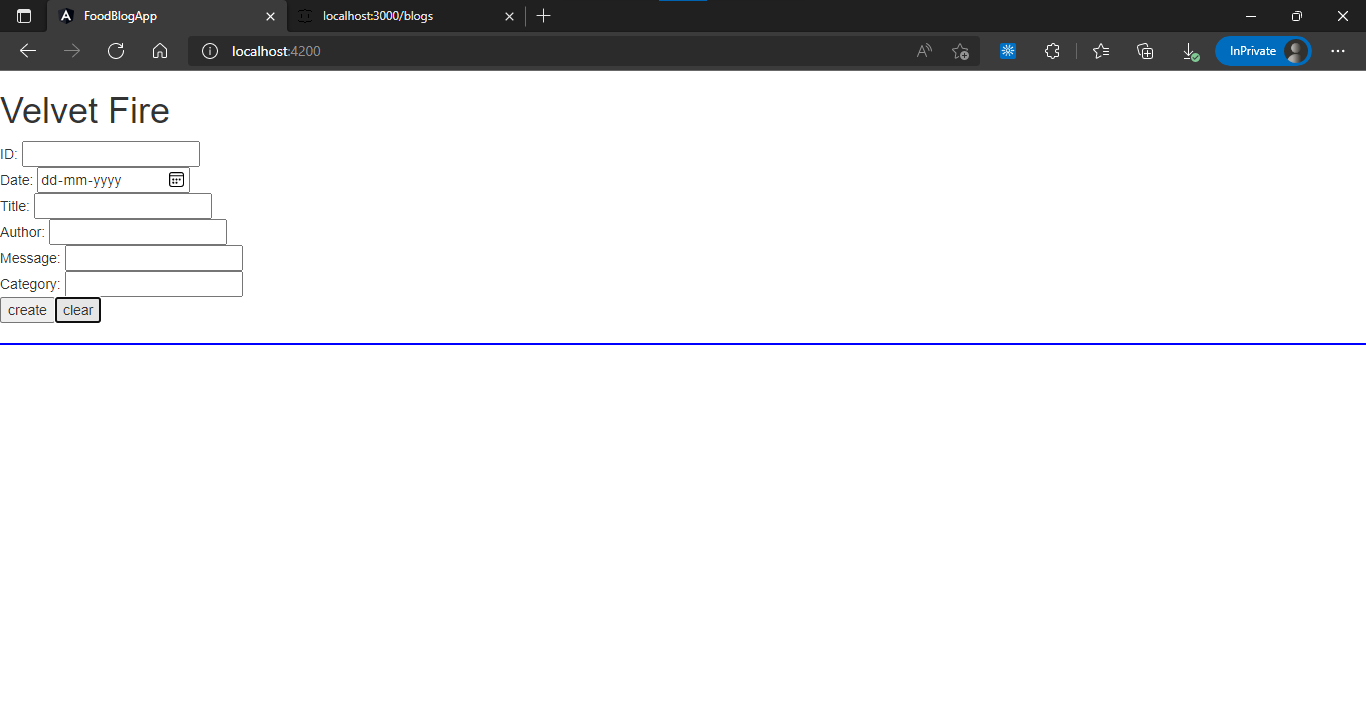
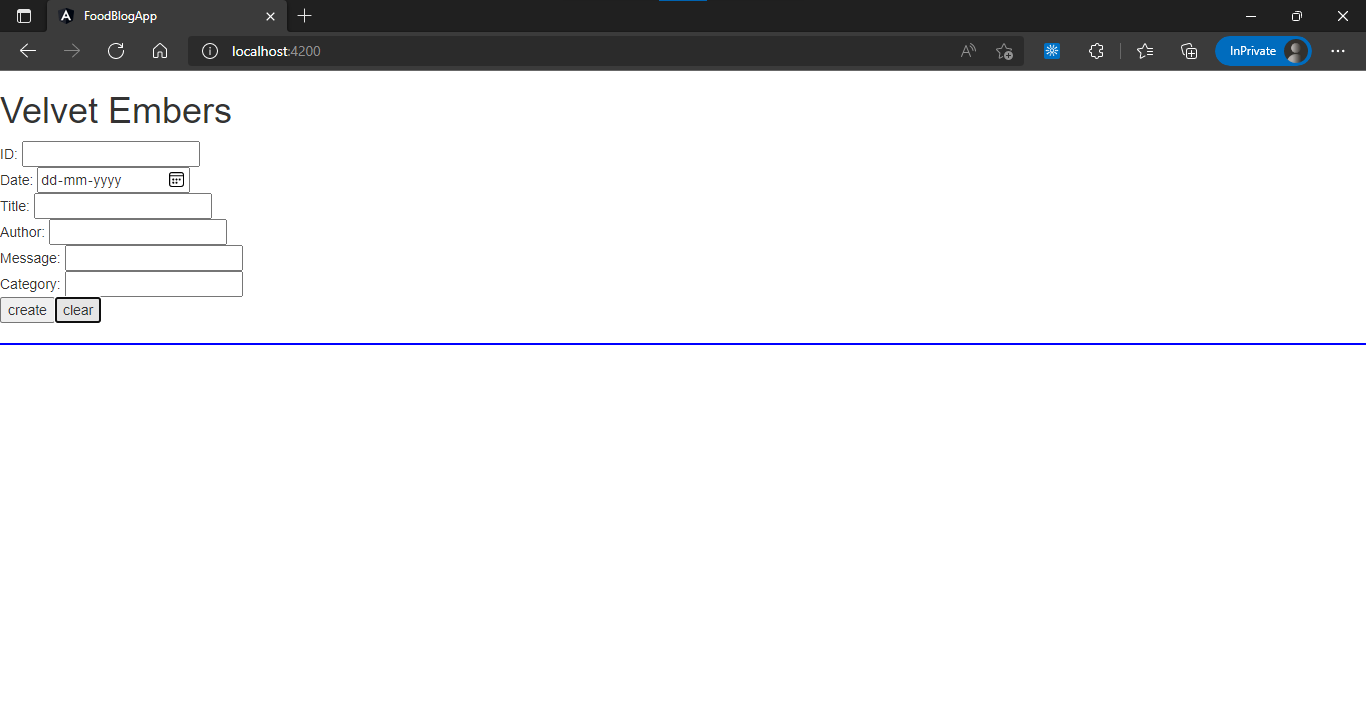
crud complete & bootstrap stylings

diff --git a/food-blog-app/src/app/blog/components/blog-index/blog-index.component.html b/food-blog-app/src/app/blog/components/blog-index/blog-index.component.html
@@ -7,6 +7,7 @@
             <th>Author</th>
             <th>Message</th>
             <th>Category</th>
+            <th>Operations</th>
         </tr>
     </thead>
     <tbody>
@@ -17,17 +18,60 @@
             <td>{{blog.author}}</td>
             <td>{{blog.message}}</td>
             <td>{{blog.category}}</td>
+            <td>
+                <button class="btn btn-primary" (click)="getBlogById(blog.id)">select</button>
+                <button class="btn btn-danger" (click)="deleteBlog(blog.id)">delete</button>
+            </td>
         </tr>
     </tbody>
 </table>
 <hr style="border: 1px solid green;"/>
-ID: <input type="number" [(ngModel)]="blog.id"/> <br/>
-Date: <input type="date" [(ngModel)]="blog.date"/> <br/>
-Title: <input type="text" [(ngModel)]="blog.title"/> <br/>
-Author: <input type="text" [(ngModel)]="blog.author"/> <br/>
-Message: <input type="text" [(ngModel)]="blog.message"/> <br/>
-Category: <input type="text" [(ngModel)]="blog.category"/> <br/>
-<button (click)="createBlog()">create</button>
-<button (click)="clear()">clear</button>
+<div class="row">
+    <div class="col-sm-6 form-horizontal">
+        <div class="row form-group">
+            <label class="col-sm-2 control-label" for="id">ID</label>
+            <div class="col-sm-4">
+                <input type="number" [(ngModel)]="blog.id" class="form-control" id="id"/>
+            </div>
+        </div>
+        <div class="row form-group">
+            <label class="col-sm-2 control-label" for="date">Date</label>
+            <div class="col-sm-4">
+                <input type="date" [(ngModel)]="blog.date" class="form-control" id="date"/>
+            </div>
+        </div>
+        <div class="row form-group">
+            <label class="col-sm-2 control-label" for="title">Title</label>
+            <div class="col-sm-4">
+                <input type="text" [(ngModel)]="blog.title" class="form-control" id="title"/>
+            </div>
+        </div>
+        <div class="row form-group">
+            <label class="col-sm-2 control-label" for="author">Author</label>
+            <div class="col-sm-4">
+                <input type="text" [(ngModel)]="blog.author" class="form-control" id="author"/>
+            </div>
+        </div>
+        <div class="row form-group">
+            <label class="col-sm-2 control-label" for="message">Message</label>
+            <div class="col-sm-4">
+                <input type="text" [(ngModel)]="blog.message" class="form-control" id="message"/>
+            </div>
+        </div>
+        <div class="row form-group">
+            <label class="col-sm-2 control-label" for="category">Category</label>
+            <div class="col-sm-4">
+                <input type="text" [(ngModel)]="blog.category" class="form-control" id="category"/>
+            </div>
+        </div>
+    </div>
+</div>
+<div class="row btn-group">
+    <button class="btn btn-primary" (click)="createBlog()">create</button>
+    <button class="btn btn-primary" (click)="clear()">clear</button>
+    <button class="btn btn-primary" (click)="updateBlog()">update</button>
+</div>
 <hr style="border: 1px solid blue;">
-{{msg}}
+<div class="row">
+    {{msg}}
+</div>

diff --git a/food-blog-app/src/app/app.component.html b/food-blog-app/src/app/app.component.html
@@ -1,2 +1,38 @@
-<h1>Velvet Fire</h1>
-<app-blog-index></app-blog-index>
+<div class="container">
+    <div class="row logoarea">
+        <h1>Velvet Embers</h1>
+    </div>
+    <div class="row">
+        <ul class="nav nav-tabs">
+            <li class="nav-item">
+                <a routerLink="/register" class="nav-link active" data-toggle="tab">register</a>
+            </li>
+            <li class="nav-item">
+                <a routerLink="/login" class="nav-link active" data-toggle="tab">login</a>
+            </li>
+            <li class="nav-item">
+                <a routerLink="/blog" class="nav-link active" data-toggle="tab">blog</a>
+            </li>
+            <li class="nav-item">
+                <a routerLink="/contact" class="nav-link active" data-toggle="tab">contact</a>  
+            </li>
+        </ul>
+    </div>
+    <router-outlet></router-outlet>
+    <div class="row">
+        <div class="tab-content">
+            <div id="register" class="tab-pane fade">
+                <app-register></app-register>
+            </div>
+            <div id="login" class="tab-pane fade">
+                <app-login></app-login>
+            </div>
+            <div id="blog" class="tab-pane fade">
+                <app-blog-index></app-blog-index>
+            </div>
+            <div id="contact" class="tab-pane fade">
+                <app-contact></app-contact>
+            </div>
+        </div>
+    </div>
+</div>

diff --git a/food-blog-app/src/app/blog/components/blog-index/blog-index.component.ts b/food-blog-app/src/app/blog/components/blog-index/blog-index.component.ts
@@ -17,32 +17,38 @@ export class BlogIndexComponent implements OnInit {
   constructor(private cjs: CrudJsonService) { }
 
   ngOnInit(): void {
+    this.getAllBlogs();
+  }
+
+  getAllBlogs(){
     this.cjs.getAllBlogs()
-      .subscribe(response => this.blogs = response);
+    .subscribe(response => this.blogs = response);
   }
 
   createBlog(){
     this.cjs.createBlog(this.blog)
-      .subscribe(response => this.msg="Course Added Successfully");
+      .subscribe(response => this.msg="Blog Added Successfully");
   }
 
   clear(){
     this.blog = new Blog();
     this.msg = '';
-    this.cjs.getAllBlogs()
-    .subscribe(response => this.blogs = response);
+    this.getAllBlogs();
   }
 
-  getBlogById(){
-
+  getBlogById(id:number){
+    this.cjs.getBlogById(id)
+      .subscribe(response => this.blog = response);
   }
 
   updateBlog(){
-
+    this.cjs.updateBlog(this.blog.id??NaN, this.blog)
+      .subscribe(response => this.msg="Blog Updated Successfully");
   }
 
-  deleteBlog(){
-
+  deleteBlog(id:number){
+    this.cjs.deleteBlog(id)
+      .subscribe(response => this.msg="Blog Deleted Successfully");
   }
 
 }

diff --git a/food-blog-app/src/app/app-routing.module.ts b/food-blog-app/src/app/app-routing.module.ts
@@ -1,10 +1,23 @@
 import { NgModule } from '@angular/core';
 import { RouterModule, Routes } from '@angular/router';
+import { BlogIndexComponent } from './blog/components/blog-index/blog-index.component';
+import { ContactComponent } from './blog/components/contact/contact.component';
+import { ErrorComponent } from './blog/components/error/error.component';
+import { LoginComponent } from './blog/components/login/login.component';
+import { RegisterComponent } from './blog/components/register/register.component';
 
-const routes: Routes = [];
+const routes: Routes = [
+  {path:'blog', component:BlogIndexComponent},
+  {path:'login', component:LoginComponent},
+  {path:'register', component:RegisterComponent},
+  {path:'contact', component:ContactComponent},
+  {path:'', redirectTo:'/register', pathMatch:'full'},
+  {path:'**', component:ErrorComponent}
+];
 
 @NgModule({
   imports: [RouterModule.forRoot(routes)],
   exports: [RouterModule]
 })
+
 export class AppRoutingModule { }

diff --git a/food-blog-app/src/app/blog/blog.module.ts b/food-blog-app/src/app/blog/blog.module.ts
@@ -2,17 +2,29 @@ import { NgModule } from '@angular/core';
 import { CommonModule } from '@angular/common';
 import { BlogIndexComponent } from './components/blog-index/blog-index.component';
 import { FormsModule } from '@angular/forms';
+import { RegisterComponent } from './components/register/register.component';
+import { LoginComponent } from './components/login/login.component';
+import { ErrorComponent } from './components/error/error.component';
+import { ContactComponent } from './components/contact/contact.component';
 
 @NgModule({
   declarations: [
-    BlogIndexComponent
+    BlogIndexComponent,
+    RegisterComponent,
+    LoginComponent,
+    ErrorComponent,
+    ContactComponent
   ],
   imports: [
     CommonModule,
     FormsModule
   ],
   exports:[
-    BlogIndexComponent
+    BlogIndexComponent,
+    RegisterComponent,
+    LoginComponent,
+    ErrorComponent,
+    ContactComponent
   ]
 })
 

diff --git a/food-blog-app/src/app/blog/components/register/register.component.spec.ts b/food-blog-app/src/app/blog/components/register/register.component.spec.ts
@@ -1,0 +1,25 @@
+import { ComponentFixture, TestBed } from '@angular/core/testing';
+
+import { RegisterComponent } from './register.component';
+
+describe('RegisterComponent', () => {
+  let component: RegisterComponent;
+  let fixture: ComponentFixture<RegisterComponent>;
+
+  beforeEach(async () => {
+    await TestBed.configureTestingModule({
+      declarations: [ RegisterComponent ]
+    })
+    .compileComponents();
+  });
+
+  beforeEach(() => {
+    fixture = TestBed.createComponent(RegisterComponent);
+    component = fixture.componentInstance;
+    fixture.detectChanges();
+  });
+
+  it('should create', () => {
+    expect(component).toBeTruthy();
+  });
+});

diff --git a/food-blog-app/src/app/blog/components/contact/contact.component.spec.ts b/food-blog-app/src/app/blog/components/contact/contact.component.spec.ts
@@ -1,0 +1,25 @@
+import { ComponentFixture, TestBed } from '@angular/core/testing';
+
+import { ContactComponent } from './contact.component';
+
+describe('ContactComponent', () => {
+  let component: ContactComponent;
+  let fixture: ComponentFixture<ContactComponent>;
+
+  beforeEach(async () => {
+    await TestBed.configureTestingModule({
+      declarations: [ ContactComponent ]
+    })
+    .compileComponents();
+  });
+
+  beforeEach(() => {
+    fixture = TestBed.createComponent(ContactComponent);
+    component = fixture.componentInstance;
+    fixture.detectChanges();
+  });
+
+  it('should create', () => {
+    expect(component).toBeTruthy();
+  });
+});

diff --git a/food-blog-app/src/app/blog/components/error/error.component.spec.ts b/food-blog-app/src/app/blog/components/error/error.component.spec.ts
@@ -1,0 +1,25 @@
+import { ComponentFixture, TestBed } from '@angular/core/testing';
+
+import { ErrorComponent } from './error.component';
+
+describe('ErrorComponent', () => {
+  let component: ErrorComponent;
+  let fixture: ComponentFixture<ErrorComponent>;
+
+  beforeEach(async () => {
+    await TestBed.configureTestingModule({
+      declarations: [ ErrorComponent ]
+    })
+    .compileComponents();
+  });
+
+  beforeEach(() => {
+    fixture = TestBed.createComponent(ErrorComponent);
+    component = fixture.componentInstance;
+    fixture.detectChanges();
+  });
+
+  it('should create', () => {
+    expect(component).toBeTruthy();
+  });
+});

diff --git a/food-blog-app/src/app/blog/components/login/login.component.spec.ts b/food-blog-app/src/app/blog/components/login/login.component.spec.ts
@@ -1,0 +1,25 @@
+import { ComponentFixture, TestBed } from '@angular/core/testing';
+
+import { LoginComponent } from './login.component';
+
+describe('LoginComponent', () => {
+  let component: LoginComponent;
+  let fixture: ComponentFixture<LoginComponent>;
+
+  beforeEach(async () => {
+    await TestBed.configureTestingModule({
+      declarations: [ LoginComponent ]
+    })
+    .compileComponents();
+  });
+
+  beforeEach(() => {
+    fixture = TestBed.createComponent(LoginComponent);
+    component = fixture.componentInstance;
+    fixture.detectChanges();
+  });
+
+  it('should create', () => {
+    expect(component).toBeTruthy();
+  });
+});

diff --git a/food-blog-app/src/app/app.component.css b/food-blog-app/src/app/app.component.css
@@ -1,0 +1,9 @@
+.container{
+    background-color: lightgoldenrodyellow;
+    text-align: center;
+}
+.logoarea{
+    /* background-image: url("https://media.istockphoto.com/photos/glowing-charcoal-briquettes-background-texture-picture-id474944786?k=20&m=474944786&s=612x612&w=0&h=pOLOTlHzUHJ2dc5uRQ7Jd2LC-oOjBnw6ki9szkkGolU="); */
+    background-image: url(../assets/istockphoto-glowing-charcoal-briquettes-background-texture.jpg);
+    color: whitesmoke;
+}

diff --git a/food-blog-app/src/app/blog/components/register/register.component.ts b/food-blog-app/src/app/blog/components/register/register.component.ts
@@ -1,0 +1,15 @@
+import { Component, OnInit } from '@angular/core';
+
+@Component({
+  selector: 'app-register',
+  templateUrl: './register.component.html',
+  styleUrls: ['./register.component.css']
+})
+export class RegisterComponent implements OnInit {
+
+  constructor() { }
+
+  ngOnInit(): void {
+  }
+
+}

diff --git a/food-blog-app/src/app/blog/components/contact/contact.component.ts b/food-blog-app/src/app/blog/components/contact/contact.component.ts
@@ -1,0 +1,15 @@
+import { Component, OnInit } from '@angular/core';
+
+@Component({
+  selector: 'app-contact',
+  templateUrl: './contact.component.html',
+  styleUrls: ['./contact.component.css']
+})
+export class ContactComponent implements OnInit {
+
+  constructor() { }
+
+  ngOnInit(): void {
+  }
+
+}
